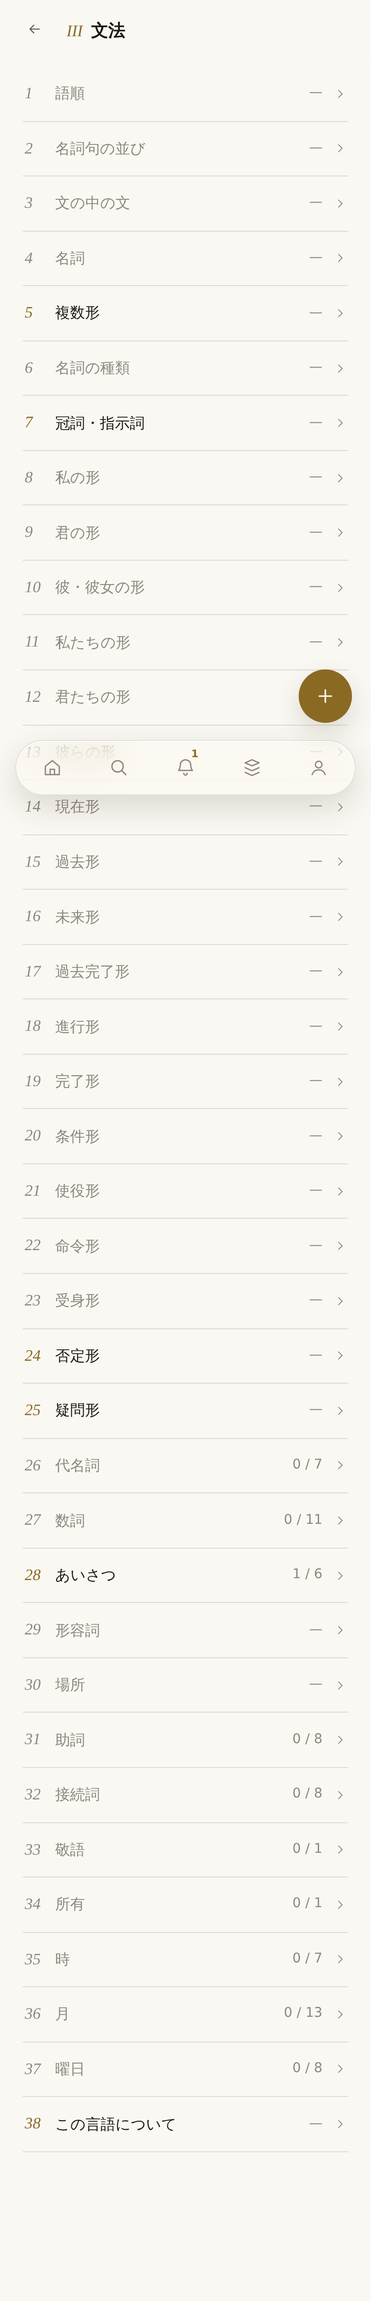
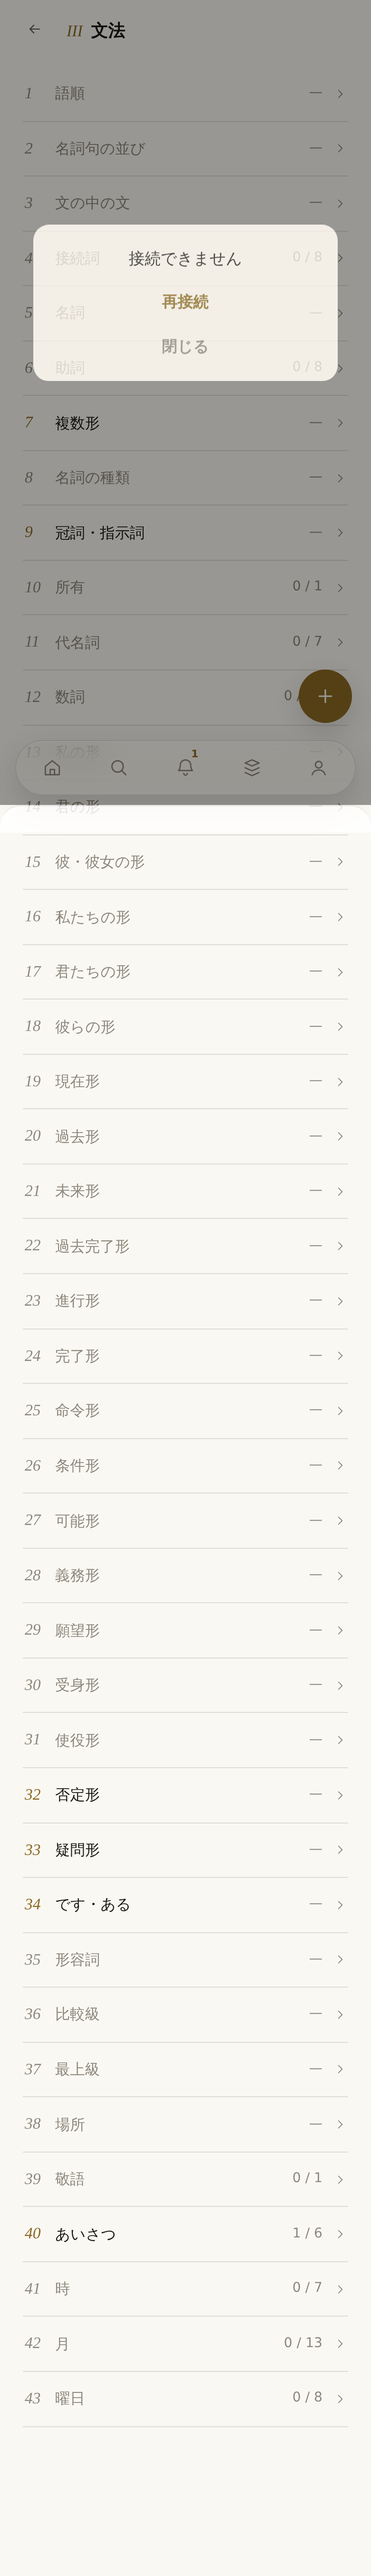
文法一覧の章「この言語について」を削除 — g2Status/g2Stat と g2.forms/g2.der と .gside/.gsl/.gsw
OWNER 2026-09-08「この言語については非表示にしてよ 文法ページ」。単語数・活用の数・
派生の数の三つの数だけの章で、同じ名前の章が目次にある。写真は同じコミットに入れた
（tools/pre-commit が画面の変更と写真を離さない）。

Claude-Session: https://claude.ai/code/session_01RQfYZmZe9uhCZtZGKjU4mz

diff --git a/www/index.html b/www/index.html
@@ -3240,11 +3240,10 @@ button.spbig{display:block;width:100%;background:none;border:0;padding:0;font:in
    script shows the half that exists instead of nothing at all. */
 html[data-script="on"] .hw,
 html[data-script="on"] .psw,
-html[data-script="on"] .whw,
-html[data-script="on"] .gsw{font-family:var(--face-script);letter-spacing:0}
-/* The declaration is on .gsw because .gsw is the last of them, and it went
-   missing once for exactly that reason: the two selectors under it -- .seq
-   and .st-seq -- were dropped when the screen that wore them was deleted, and
+html[data-script="on"] .whw{font-family:var(--face-script);letter-spacing:0}
+/* The declaration is on .whw because .whw is the last of them, and it went
+   missing once for exactly that reason: the selectors under it were dropped
+   when the screen that wore them was deleted, and
    the block came away with them. What was left was four selectors ending in a
    comma, which a browser reads as the head of the NEXT rule: every headword,
    every proposed word and every word under a grammar stage was set in
@@ -3680,16 +3679,11 @@ textarea.ntbody.grow{min-height:0;height:auto;overflow:hidden;resize:none}
 .gorder{display:flex;flex-wrap:wrap;align-items:center;gap:8px;margin:12px 0 2px}
 .gor{font-size:.86rem;color:var(--tx)}
 .gsep{display:flex;align-items:center;color:var(--gold);opacity:.8}
-/* .gdemo, .gsi, .gsg and .gsp went with the demonstration they dressed:
-   gSide() and gPosDemo() in www/grammar.js were reachable only from the
-   grammar STAGES, and those stages are gone (「重複はいらない」 OWNER
-   2026-09-06). What still wears .gside is g2Stat() -- the count of what this
-   language has, at the foot of この言語について -- and it wears .gsl and .gsw
-   and nothing else, so nothing on any screen looks different. */
-.gside{display:flex;align-items:baseline;gap:10px;padding:11px 14px;border-top:1px solid var(--line2);flex-wrap:wrap}
-.gside:first-child{border-top:0}
-.gside .gsl{flex:0 0 auto;font-size:.82rem;letter-spacing:.13em;text-transform:uppercase;color:var(--txm);min-width:50px}
-.gside .gsw{font-family:var(--face-caps);font-size:1.04rem;color:var(--tx);word-break:break-word}
+/* .gdemo, .gsi, .gsg, .gsp, .gside, .gsl and .gsw went with what they
+   dressed: gSide() and gPosDemo() went with the grammar STAGES
+   (「重複はいらない」 OWNER 2026-09-06), and g2Stat() went with この言語について
+   at the foot of the grammar list (「この言語については非表示にしてよ 文法
+   ページ」 OWNER 2026-09-08). Nothing wears them now. */
 
 /* ---------- nothing tappable smaller than a thumb ----------
    Apple's floor is 44px and a phone has nothing finer to point with. These

diff --git a/www/grammar.js b/www/grammar.js
@@ -1367,32 +1367,6 @@ function g2Adp(){
    to be written, which is not decided here and is not papered over.
    docs/BACKLOG.md carries what is missing, with what each would need. */
 
-/* §14 Language Engine Status. 「ユーザーが Lingua で言語を作り込むほど、
-   Words + Morphemes + Derivations + Inflections + ... が蓄積され、その結果
-   Parser / Generator / Translation の精度が上がる」(§24)
-
-   So the last block of the page is what this language HAS. It is a count and
-   not a report: a number is a state, and the rest of the page is where each
-   of them can be seen one at a time.
-
-   Three rows and not the seven §14 draws. `Morphemes` is always nought --
-   nothing in this app writes one, because a rule carries its own letters --
-   and a row that can only ever say nought is a slot nobody can fill, which is
-   the shape this page has spent all day taking OUT. `Grammar rules` counts
-   what this file builds for the engine rather than anything somebody wrote.
-   Parser and generator coverage are drawn in §14 as `...` and are not a
-   number anybody has defined yet. Those four arrive when they can be true. */
-function g2Stat(lab, n){
-  return '<div class="gside"><span class="gsl">'+esc(lab)+'</span>'+
-    '<span class="gsw">'+esc(String(n))+'</span></div>';
-}
-function g2Status(){
-  var m=gModel([]);
-  return g2Stat(t('g2.words'), WORDS.length)+
-    g2Stat(t('g2.forms'), m.inflections.length)+
-    g2Stat(t('g2.der'), m.derivations.length);
-}
-
 /* ---- what a chapter can still be told ----------------------------------
    「新しい規則は＋とかで作ればいいやん」 OWNER 2026-08-27.
 
@@ -1734,7 +1708,6 @@ function g2Chaps(){
   }
   out.push({id:'adj', body:g2Adj,    nm:posLabel('adj'), pos:'adj'});
   out.push({id:'adp', body:g2Adp,    nm:t('stg.where.t')});
-  out.push({id:'st',  body:g2Status, nm:t('wld.about')});
   return out;
 }
 function g2ChapBy(id){

diff --git a/www/i18n/ru.js b/www/i18n/ru.js
@@ -569,8 +569,6 @@ defLang('ru', (function(){
       "stg.rules.ph"       : "　",
       "stg.ex"             : "Строки",
       "g2.words"           : "Слова",
-      "g2.forms"           : "Формы",
-      "g2.der"             : "Словообразование",
       "stg.ex.lb.ph"       : "",
       "stg.neg.not"        : "не",
       "stg.ask.why"        : "почему",

diff --git a/www/i18n/ja.js b/www/i18n/ja.js
@@ -481,8 +481,6 @@ defLang('ja', (function(){
       'stg.rules.ph'     : '　',
       'stg.ex'           : '例文',
       'g2.words'         : '単語',
-      'g2.forms'         : '語形',
-      'g2.der'           : '語形成',
       'stg.ex.lb.ph'     : '肯定 / 否定',
       'stg.neg.not'      : 'ない',
       'stg.ask.why'      : 'なぜ',

diff --git a/www/i18n/pt.js b/www/i18n/pt.js
@@ -572,8 +572,6 @@ defLang('pt', (function(){
       "stg.rules.ph"     : "　",
       "stg.ex"           : "Frases",
       "g2.words"         : "Palavras",
-      "g2.forms"         : "Formas",
-      "g2.der"           : "Formação de palavras",
       "stg.ex.lb.ph"     : "",
       "stg.neg.not"      : "não",
       "stg.ask.why"      : "por que",

diff --git a/www/i18n/es.js b/www/i18n/es.js
@@ -525,8 +525,6 @@ defLang('es', (function(){
       "stg.rules.ph"     : "　",
       "stg.ex"           : "Frases",
       "g2.words"         : "Palabras",
-      "g2.forms"         : "Formas",
-      "g2.der"           : "Formación de palabras",
       "stg.ex.lb.ph"     : "",
       "stg.neg.not"      : "no",
       "stg.ask.why"      : "por qué",

diff --git a/www/i18n/fr.js b/www/i18n/fr.js
@@ -613,8 +613,6 @@ defLang('fr', (function(){
       "stg.rules.ph"     : "　",
       "stg.ex"           : "Phrases",
       "g2.words"         : "Mots",
-      "g2.forms"         : "Formes",
-      "g2.der"           : "Formation des mots",
       "stg.ex.lb.ph"     : "",
       "stg.neg.not"      : "ne pas",
       "stg.ask.why"      : "pourquoi",

diff --git a/www/i18n/it.js b/www/i18n/it.js
@@ -565,8 +565,6 @@ defLang('it', (function(){
       "stg.rules.ph"     : "　",
       "stg.ex"           : "Frasi",
       "g2.words"         : "Parole",
-      "g2.forms"         : "Forme",
-      "g2.der"           : "Formazione delle parole",
       "stg.ex.lb.ph"     : "",
       "stg.neg.not"      : "non",
       "stg.ask.why"      : "perché",

diff --git a/www/i18n/de.js b/www/i18n/de.js
@@ -553,8 +553,6 @@ defLang('de', (function(){
       "stg.rules.ph"     : "　",
       "stg.ex"           : "Sätze",
       "g2.words"         : "Wörter",
-      "g2.forms"         : "Formen",
-      "g2.der"           : "Wortbildung",
       "stg.ex.lb.ph"     : "",
       "stg.neg.not"      : "nicht",
       "stg.ask.why"      : "warum",

diff --git a/www/i18n/ko.js b/www/i18n/ko.js
@@ -744,8 +744,6 @@ defLang('ko', (function(){
       "stg.rules.ph"     : "　",
       "stg.ex"           : "예문",
       "g2.words"         : "단어",
-      "g2.forms"         : "어형",
-      "g2.der"           : "조어",
       "stg.ex.lb.ph"     : "",
       "stg.neg.not"      : "아니다",
       "stg.ask.why"      : "왜",

diff --git a/www/i18n/zh.js b/www/i18n/zh.js
@@ -573,8 +573,6 @@ defLang('zh', (function(){
       "stg.rules.ph"     : "　",
       "stg.ex"           : "例句",
       "g2.words"         : "单词",
-      "g2.forms"         : "词形",
-      "g2.der"           : "构词",
       "stg.ex.lb.ph"     : "",
       "stg.neg.not"      : "不",
       "stg.ask.why"      : "为什么",

diff --git a/www/i18n/en.js b/www/i18n/en.js
@@ -469,8 +469,6 @@ defLang('en', (function(){
       'stg.rules.ph'     : '　',
       'stg.ex'           : 'Lines',
       'g2.words'         : 'Words',
-      'g2.forms'         : 'Forms',
-      'g2.der'           : 'Word formation',
       'stg.ex.lb.ph'     : '',
       'stg.neg.not'      : 'not',
       'stg.ask.why'      : 'why',
